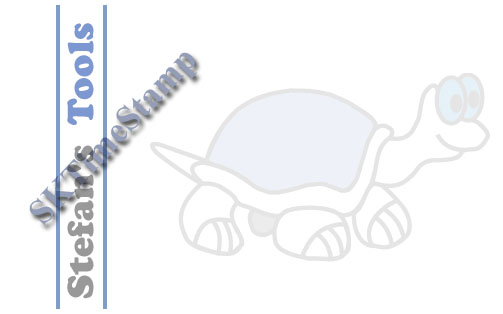
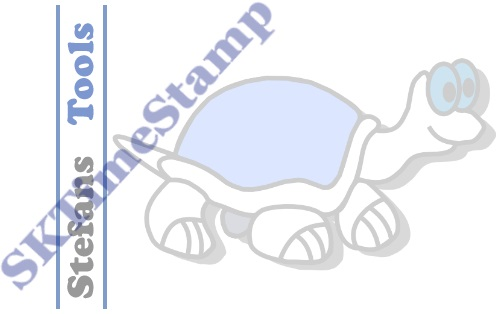
"Stefan's" -> "Stefans"

Changed region(s): [[0.0, 0.0, 0.9841, 0.9172]]

diff --git a/www/source/_includes/header.html b/www/source/_includes/header.html
@@ -2,7 +2,7 @@
 <html lang="en">
 <head>
     <meta charset="utf-8">
-    <title>@@title - Stefan's Tools</title>
+    <title>@@title - Stefans Tools</title>
     @@metaDescription
     @@metaKeywords
     <link rel="shortcut icon" href="/favicon.ico">
@@ -12,6 +12,6 @@
 </head>
 <body>
     <header class="main-sprite" id="top">
-        <h1 class="header-title"><a href="/">Stefan's Tools</a></h1>
+        <h1 class="header-title"><a href="/">Stefans Tools</a></h1>
         <h2 class="header-description">Useful open source tools that make your life easier</h2>
     </header>
